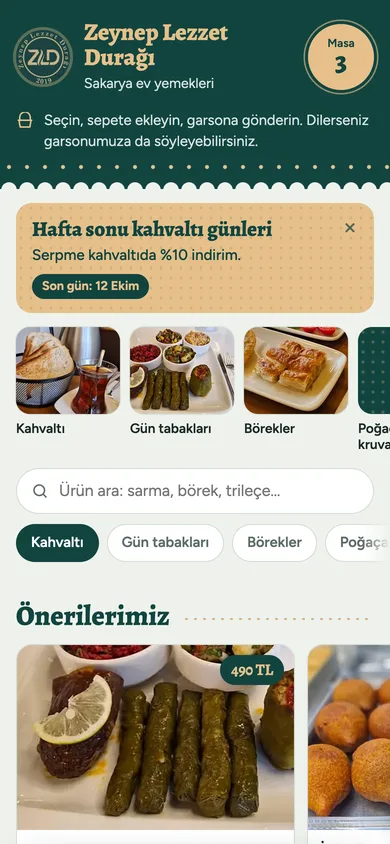
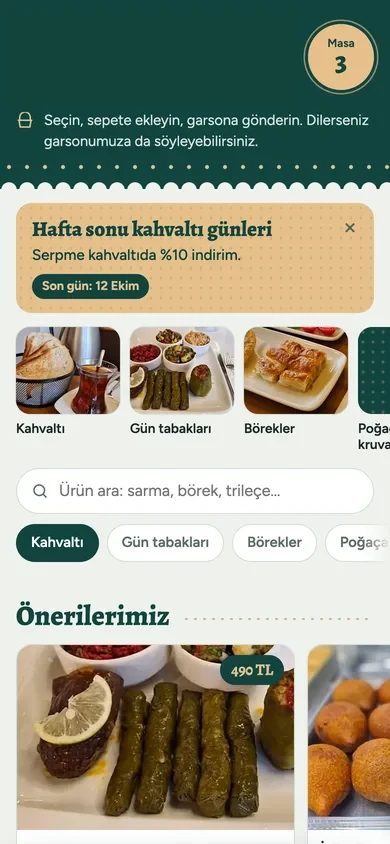
Remove the café's name from the works section
Replace the café-name heading with a description of the system, drop the
name from image alt texts, and cover the name and logo in both screenshots.

Changed region(s): [[0.2154, 0.0308, 0.5846, 0.1232], [0.0308, 0.0308, 0.1846, 0.1232]]

diff --git a/index.html b/index.html
@@ -972,13 +972,13 @@
       <div class="workHead">
         <div>
           <p class="workKind">Müşteri işi, Sakarya'da bir ev yemekleri kafesi</p>
-          <h3 id="w3Title">Zeynep Lezzet Durağı</h3>
+          <h3 id="w3Title">QR sipariş ve mutfak sistemi</h3>
         </div>
         <p class="workText">Masadan QR ile sipariş, garson, mutfak ve kasa ekranları, kişi kişi hesap ve gelip alınan siparişler için Gel Al uygulaması. Hepsi aynı anda, canlı güncellenir.</p>
       </div>
       <div class="shots">
-        <div class="bezel"><div class="core"><img src="img/zld-mutfak.webp" width="1280" height="760" alt="Zeynep Lezzet Durağı mutfak ekranı: masa, Gel Al ve Yemeksepeti siparişleri, saat yaklaşınca uyarılar" loading="lazy" decoding="async"></div></div>
-        <div class="shotPhone"><img src="img/zld-telefon.webp" width="390" height="844" alt="Zeynep Lezzet Durağı'nın masadaki QR menüsü" loading="lazy" decoding="async"></div>
+        <div class="bezel"><div class="core"><img src="img/zld-mutfak.webp" width="1280" height="760" alt="Kafenin mutfak ekranı: masa, Gel Al ve Yemeksepeti siparişleri, saat yaklaşınca uyarılar" loading="lazy" decoding="async"></div></div>
+        <div class="shotPhone"><img src="img/zld-telefon.webp" width="390" height="844" alt="Kafenin masadaki QR menüsü" loading="lazy" decoding="async"></div>
       </div>
       <div class="workFoot">
         <ul class="facts">

diff --git a/en.html b/en.html
@@ -972,13 +972,13 @@
       <div class="workHead">
         <div>
           <p class="workKind">Client work, a home-cooking café in Sakarya</p>
-          <h3 id="w3Title">Zeynep Lezzet Durağı</h3>
+          <h3 id="w3Title">QR ordering and kitchen system</h3>
         </div>
         <p class="workText">QR ordering at the table, waiter, kitchen and till screens, split bills per guest, and a pick-up ordering app. Every screen updates live.</p>
       </div>
       <div class="shots">
-        <div class="bezel"><div class="core"><img src="img/zld-mutfak.webp" width="1280" height="760" alt="Zeynep Lezzet Durağı kitchen screen: table, pick-up and delivery-platform orders with countdown alerts" loading="lazy" decoding="async"></div></div>
-        <div class="shotPhone"><img src="img/zld-telefon.webp" width="390" height="844" alt="Zeynep Lezzet Durağı's QR menu at the table" loading="lazy" decoding="async"></div>
+        <div class="bezel"><div class="core"><img src="img/zld-mutfak.webp" width="1280" height="760" alt="The café's kitchen screen: table, pick-up and delivery-platform orders with countdown alerts" loading="lazy" decoding="async"></div></div>
+        <div class="shotPhone"><img src="img/zld-telefon.webp" width="390" height="844" alt="The café's QR menu at the table" loading="lazy" decoding="async"></div>
       </div>
       <div class="workFoot">
         <ul class="facts">

diff --git a/.kaynak/template.html b/.kaynak/template.html
@@ -843,7 +843,7 @@
       <div class="workHead">
         <div>
           <p class="workKind">[[w3kind]]</p>
-          <h3 id="w3Title">Zeynep Lezzet Durağı</h3>
+          <h3 id="w3Title">[[w3Title]]</h3>
         </div>
         <p class="workText">[[w3p]]</p>
       </div>

diff --git a/.kaynak/build.py b/.kaynak/build.py
@@ -120,8 +120,9 @@ TR = {
     "w3p": "Masadan QR ile sipariş, garson, mutfak ve kasa ekranları, kişi kişi hesap ve gelip alınan siparişler için Gel Al uygulaması. Hepsi aynı anda, canlı güncellenir.",
     "w3f1": "birbirine canlı bağlı ekran", "w3f2": "mağazadan indirilecek uygulama", "w3f3": "porsiyon seçeneği: az, porsiyon, kilo",
     "zldCta": "Masa menüsünü dene",
-    "zldAltDesk": "Zeynep Lezzet Durağı mutfak ekranı: masa, Gel Al ve Yemeksepeti siparişleri, saat yaklaşınca uyarılar",
-    "zldAltPhone": "Zeynep Lezzet Durağı'nın masadaki QR menüsü",
+    "w3Title": "QR sipariş ve mutfak sistemi",
+    "zldAltDesk": "Kafenin mutfak ekranı: masa, Gel Al ve Yemeksepeti siparişleri, saat yaklaşınca uyarılar",
+    "zldAltPhone": "Kafenin masadaki QR menüsü",
     "w1kind": "Kendi ürünüm, yayında",
     "w1p": "TikTok, Reels ve Shorts içerik üreticileri için watermark'sız altyazı aracı. Fikirden canlı ürüne kadar kendim geliştirdim.",
     "w1f1": "dile altyazı çevirisi", "w1f2": "watermark, ücretsiz planda bile", "w1f3": "ücretsiz video, her ay",
@@ -294,8 +295,9 @@ EN = {
     "w3p": "QR ordering at the table, waiter, kitchen and till screens, split bills per guest, and a pick-up ordering app. Every screen updates live.",
     "w3f1": "screens kept in sync live", "w3f2": "apps to download from a store", "w3f3": "portion sizes: half, full, by the kilo",
     "zldCta": "Try the table menu",
-    "zldAltDesk": "Zeynep Lezzet Durağı kitchen screen: table, pick-up and delivery-platform orders with countdown alerts",
-    "zldAltPhone": "Zeynep Lezzet Durağı's QR menu at the table",
+    "w3Title": "QR ordering and kitchen system",
+    "zldAltDesk": "The café's kitchen screen: table, pick-up and delivery-platform orders with countdown alerts",
+    "zldAltPhone": "The café's QR menu at the table",
     "w1kind": "My own product, live",
     "w1p": "A watermark-free captioning tool for TikTok, Reels and Shorts creators. I took it from idea to live product myself.",
     "w1f1": "caption languages", "w1f2": "watermarks, even on the free plan", "w1f3": "free videos every month",
